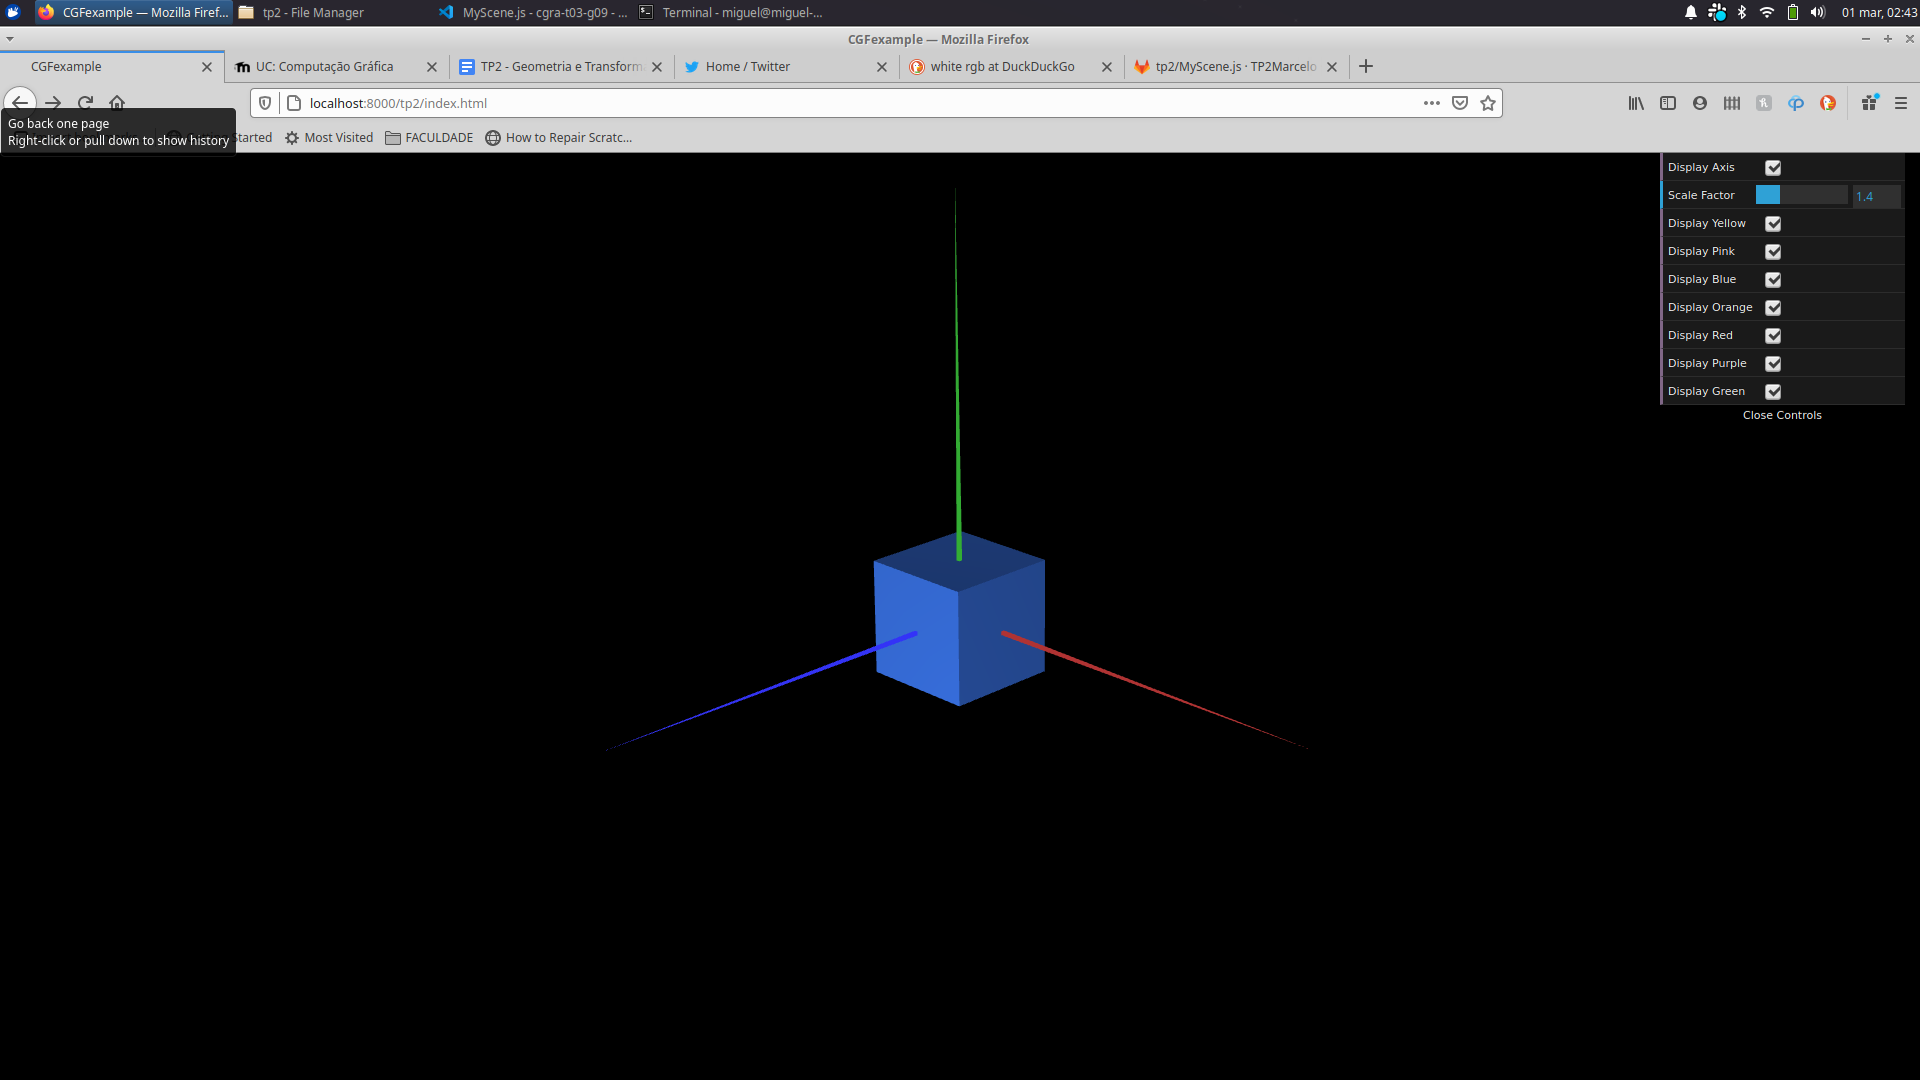
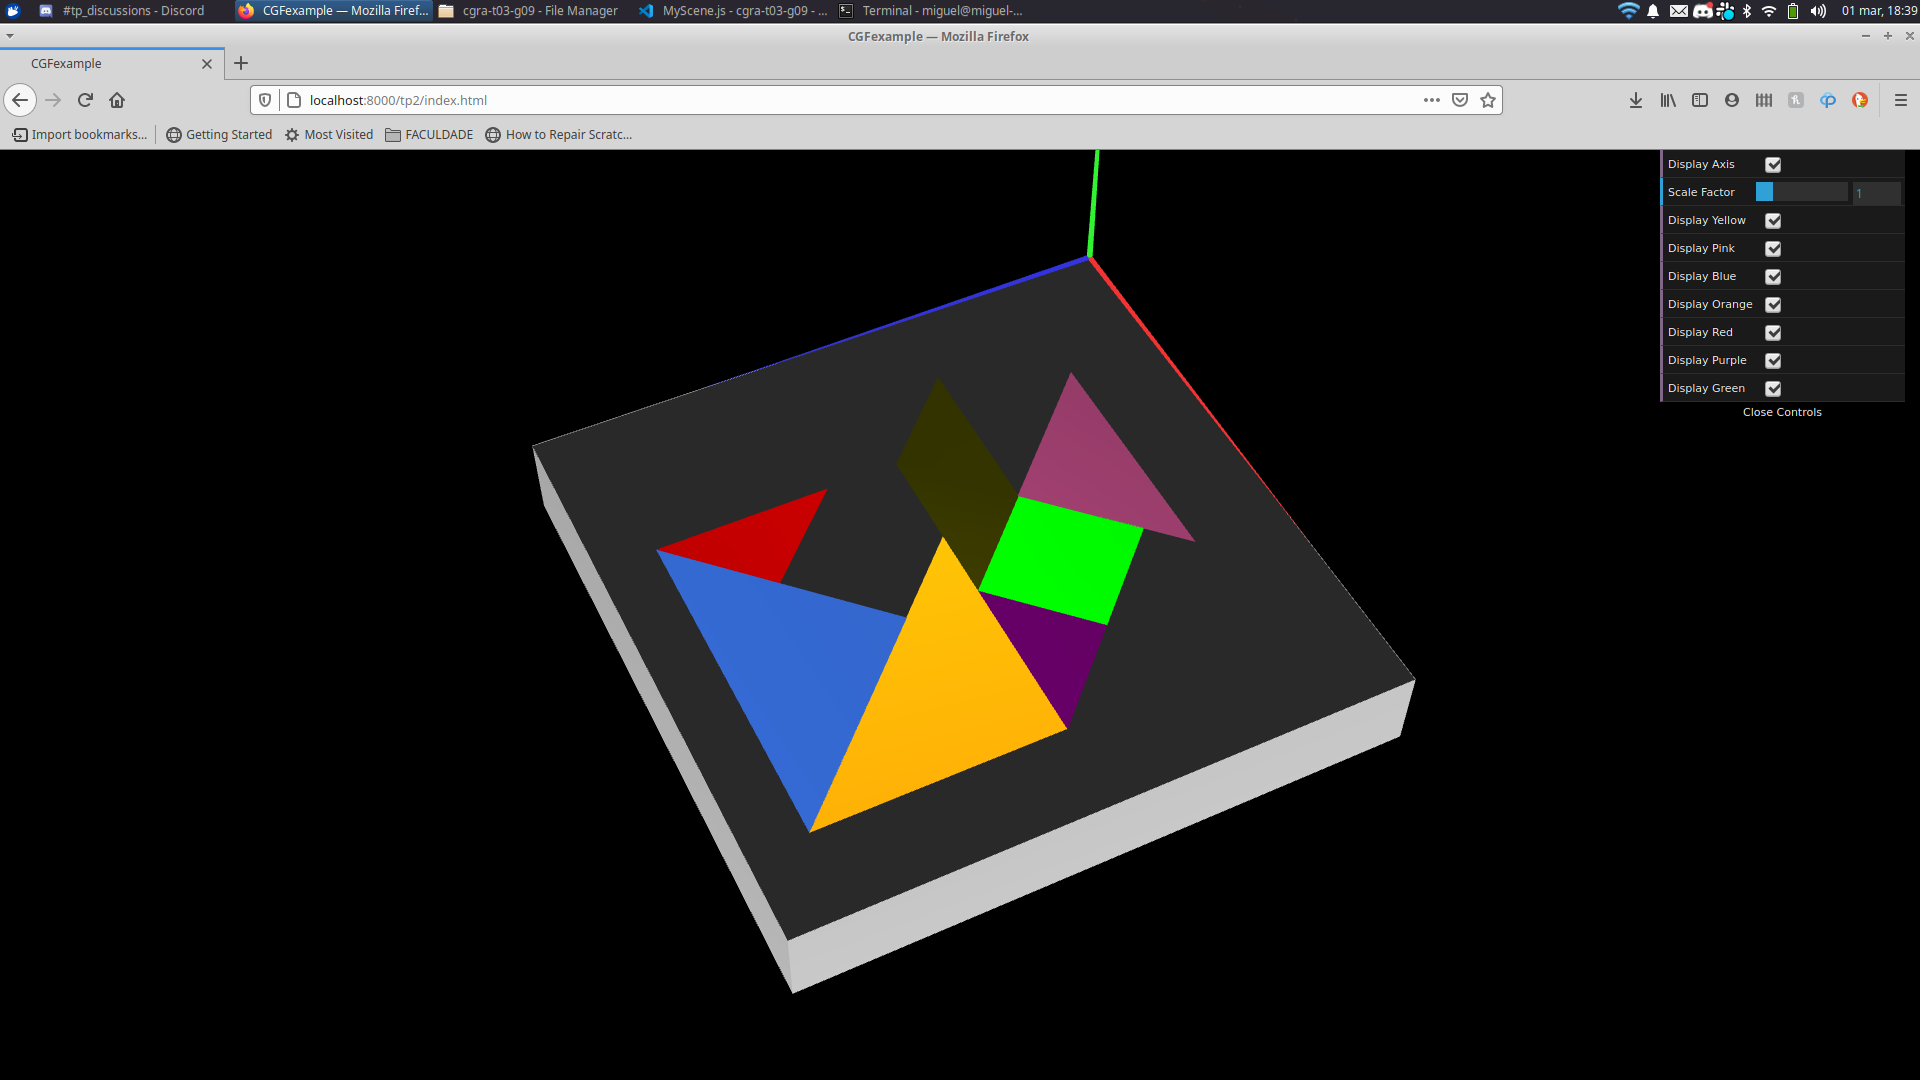
final fixes

Changed region(s): [[0.2812, 0.2139, 0.75, 0.9167], [0.0, 0.0, 1.0, 0.3972]]

diff --git a/tp2/MyScene.js b/tp2/MyScene.js
@@ -141,43 +141,51 @@ export class MyScene extends CGFscene {
     this.cube.display();
     this.popMatrix();  */
 
-     this.pushMatrix()
+    this.pushMatrix()
     this.translate(4,0,3.5);
     this.rotate(-Math.PI/2,1,0,0);
     this.tangram.display();
     this.popMatrix();
     
-    this.pushMatrix()
-    this.scale(7,7,7);
+/*    this.pushMatrix()
+    this.scale(7,1,7);
     this.translate(0.5,-0.51,0.5);//-0.51 pq facilita a visualização(mas para estarem sobrepostos seria -0.5)
     this.setWhiteAppearance();
-    this.cube.display(); 
+    this.cube.display();  */
+    this.setWhiteAppearance();
+    this.pushMatrix();
+    this.scale(7,1,7);
+    this.translate(0.5,-0.5,1);
 
-/*     this.pushMatrix();
-    this.translate(0,0,0.5);
     this.quad.display();
     this.popMatrix();
 
     this.pushMatrix();
-    this.translate(0,0,-0.5);
+    this.scale(7,1,7);
+    this.translate(0.5,-0.5,0);
     this.quad.display();
     this.popMatrix();
 
     this.pushMatrix();
+    this.scale(7,1,7);
     this.rotate(Math.PI/2,1,0,0)
     this.translate(0,0,0.5);
+    this.translate(0.5,0.5,0.5);
     this.quad.display();
-    this.translate(0,0,-1);
+    this.translate(0,0,1);
     this.quad.display();
     this.popMatrix();
 
     this.pushMatrix();
+    this.scale(7,1,7);
     this.rotate(Math.PI/2,0,1,0)
-    this.translate(0,0,0.5);
+    this.translate(-0.5,-0.5,1);
     this.quad.display();
     this.translate(0,0,-1);
     this.quad.display();
-    this.popMatrix(); */
+    this.popMatrix(); 
+
+
 
     // ---- END Primitive drawing section
   }

diff --git a/tp2/MyTangram.js b/tp2/MyTangram.js
@@ -70,7 +70,7 @@ export class MyTangram extends CGFobject {
         this.scene.translate(-2,-Math.sqrt(8)+1,0);
         this.scene.rotate(-Math.PI/2,0,0,1);
         this.scene.setRedAppearance();
-        if(this.displayPurple) this.smallTriangle.display()
+        if(this.displayRed) this.smallTriangle.display()
         this.scene.popMatrix();
 
         this.scene.pushMatrix();
